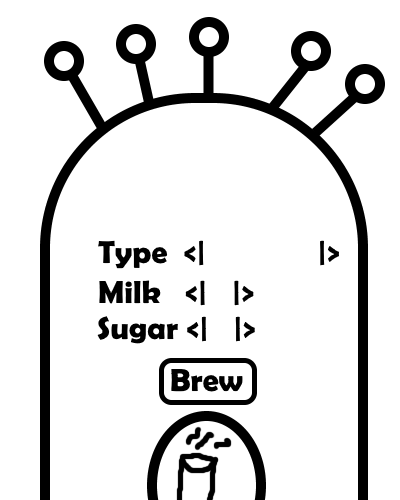
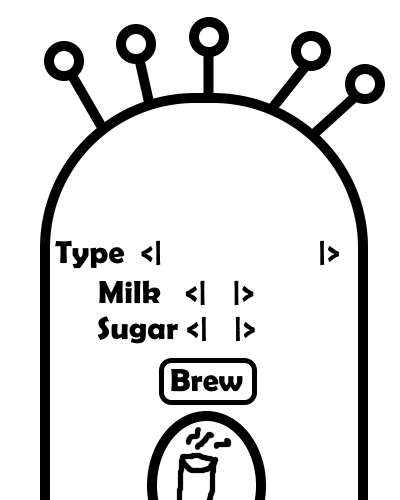
Added remaining images for GuiApp.

Changed region(s): [[0.12, 0.48, 0.42, 0.54], [0.45, 0.48, 0.51, 0.54]]

diff --git a/src/main/java/edu/bu/met/cs665/gui/GuiApp.java b/src/main/java/edu/bu/met/cs665/gui/GuiApp.java
@@ -9,10 +9,8 @@ import java.awt.event.MouseEvent;
 import java.awt.event.MouseListener;
 import java.awt.event.WindowEvent;
 import java.io.IOException;
-import java.io.InputStream;
 import java.util.ArrayList;
 import java.util.List;
-import javax.imageio.ImageIO;
 import javax.swing.JFrame;
 import javax.swing.SwingUtilities;
 import javax.swing.WindowConstants;
@@ -25,6 +23,7 @@ import edu.bu.met.cs665.bev.controller.GreenTeaBeverage;
 import edu.bu.met.cs665.bev.hardware.CompletedOrder;
 import edu.bu.met.cs665.bev.hardware.HardwareInterface;
 import edu.bu.met.cs665.bev.hardware.MockHardwareInterface;
+import edu.bu.met.cs665.gui.ResourceManager.ImageId;
 
 public class GuiApp extends Component implements MouseListener, KeyListener, BeverageControllerObserver  {
   private static final long serialVersionUID = 1L;
@@ -36,33 +35,38 @@ public class GuiApp extends Component implements MouseListener, KeyListener, Bev
       @Override
       public void run() {
         GuiApp app = new GuiApp();
-        app.start();
+        try {
+          app.start();
+        } catch (IOException e) {
+          logger.error(e.toString());
+        }
       }});
   }
   
   private JFrame window;
   
-  private Image currentImage;
-  private Image automaticBeverageMachineImage;
-  private Image automaticBeverageMachineImageWithCoffee;
+  private ResourceManager resourceManager = new ResourceManager();
+  private Image currentMachineImage;
+  private Image currentMilkQuantityImage;
+  private Image currentSugarQuantityImage;
   
   private List<Button> buttons = new ArrayList<Button>();
   
   private HardwareInterface hardwareInterface;
   private BeverageController controller;
   
-  public void start() {
+  public void start() throws IOException {
     hardwareInterface = new MockHardwareInterface(1_500);
     controller = new BeverageController(hardwareInterface);
     // Subscribe to BeverageController events.
     controller.addObserver(this);
-    
-    addButtons();
-    
-    loadImages();
-    currentImage = automaticBeverageMachineImage;
+
+    currentMachineImage = resourceManager.getImage(ImageId.MACHINE);
+    currentMilkQuantityImage = resourceManager.getImage(ImageId.CHAR_0);
+    currentSugarQuantityImage = resourceManager.getImage(ImageId.CHAR_0);
     
     createWindow();
+    addButtons();
     
     window.setDefaultCloseOperation(WindowConstants.EXIT_ON_CLOSE);
     window.setVisible(true);
@@ -108,19 +112,6 @@ public class GuiApp extends Component implements MouseListener, KeyListener, Bev
     }));
   }
   
-  private void loadImages() {
-    try {
-      InputStream imageInputStream = getClass().getClassLoader().getResourceAsStream("assignment-1-beverage-machine.png");
-      automaticBeverageMachineImage = ImageIO.read(imageInputStream);
-      
-      imageInputStream = getClass().getClassLoader().getResourceAsStream("assignment-1-beverage-machine-with-drink.png");
-      automaticBeverageMachineImageWithCoffee = ImageIO.read(imageInputStream);
-    } catch (IOException e) {
-      logger.error(e);
-      // TODO: It would probably be better to crash here, since the image wasn't found.
-    }    
-  }
-  
   private void createWindow() {
     window = new JFrame("Automatic Beverage Machine");
     window.setUndecorated(true);
@@ -137,7 +128,9 @@ public class GuiApp extends Component implements MouseListener, KeyListener, Bev
   
   @Override
   public void paint(Graphics g) {
-    g.drawImage(currentImage, 0, 0, null);
+    g.drawImage(currentMachineImage, 0, 0, null);
+    g.drawImage(currentMilkQuantityImage, 203, 275, null);
+    g.drawImage(currentSugarQuantityImage, 203, 311, null);
   }
 
   @Override
@@ -194,7 +187,11 @@ public class GuiApp extends Component implements MouseListener, KeyListener, Bev
   public void onOrderCompleted(BeverageController controller, CompletedOrder completedOrder) {
     logger.info("Beverage is ready");
     SwingUtilities.invokeLater(() -> {
-      currentImage = automaticBeverageMachineImageWithCoffee;
+      try {
+        currentMachineImage = resourceManager.getImage(ImageId.MACHINE_WITH_DRINK);
+      } catch (IOException e) {
+        logger.error("Error loading " + ImageId.MACHINE_WITH_DRINK.path() + ": " + e.toString());
+      }
       
       // Redraw the image.
       repaint();

diff --git a/src/main/java/edu/bu/met/cs665/gui/ResourceManager.java b/src/main/java/edu/bu/met/cs665/gui/ResourceManager.java
@@ -1,0 +1,53 @@
+package edu.bu.met.cs665.gui;
+
+import java.awt.Image;
+import java.awt.image.BufferedImage;
+import java.io.IOException;
+import java.io.InputStream;
+import java.util.HashMap;
+import java.util.Map;
+import javax.imageio.ImageIO;
+
+public class ResourceManager {
+  public enum ImageId {
+    MACHINE("beverage-machine.png"),
+    MACHINE_WITH_DRINK("beverage-machine-with-drink.png"),
+    CHAR_0("char-0.png"),
+    CHAR_1("char-1.png"),
+    CHAR_2("char-2.png"),
+    CHAR_3("char-3.png"),
+    TEXT_LATTE_MACCHIATO("text-latte-macchiato.png"),
+    TEXT_AMERICANO("text-americano.png"),
+    TEXT_ESPRESSO("text-espresso.png"),
+    TEXT_GREEN_TEA("text-green-tea.png"),
+    TEXT_BLACK_TEA("text-black-tea.png"),
+    TEXT_YELLOW_TEA("text-yellow-tea.png");
+    
+    private final String path;
+    
+    private ImageId(String path) {
+      this.path = path;
+    }
+    
+    String path() {
+      return path;
+    }
+  }
+  
+  private Map<ImageId, Image> images = new HashMap<>();
+  
+  public Image getImage(ImageId imageId) throws IOException {
+    Image image = images.get(imageId);
+    if (image == null) {
+      image = loadImage(imageId);
+    }
+    return image;
+  }
+  
+  private BufferedImage loadImage(ImageId imageId) throws IOException {
+    InputStream imageInputStream = getClass().getClassLoader().getResourceAsStream(imageId.path());
+    BufferedImage image = ImageIO.read(imageInputStream);
+    images.put(imageId, image);
+    return image;
+  }
+}

diff --git a/src/main/java/edu/bu/met/cs665/Main.java b/src/main/java/edu/bu/met/cs665/Main.java
@@ -5,7 +5,7 @@ import edu.bu.met.cs665.bev.controller.BeverageController;
 import edu.bu.met.cs665.bev.controller.BeverageController.State;
 import edu.bu.met.cs665.bev.controller.BeverageControllerObserver;
 import edu.bu.met.cs665.bev.controller.BeverageOrder;
-import edu.bu.met.cs665.bev.controller.LatteMachiatoBeverage;
+import edu.bu.met.cs665.bev.controller.LatteMacchiatoBeverage;
 import edu.bu.met.cs665.bev.hardware.CompletedOrder;
 import edu.bu.met.cs665.bev.hardware.HardwareInterface;
 import edu.bu.met.cs665.bev.hardware.MockHardwareInterface;
@@ -41,7 +41,7 @@ public class Main implements BeverageControllerObserver {
     logger.info("Main: BeverageController's current state: " + controller.state());
     
     logger.info("Main: Constructing first order.");
-    BeverageOrder order1 = new BeverageOrder(new LatteMachiatoBeverage());
+    BeverageOrder order1 = new BeverageOrder(new LatteMacchiatoBeverage());
     logger.info("Main: Submitting first order to BeverageController: " + order1.toString());
     controller.submitOrder(order1);
     

diff --git a/src/main/java/edu/bu/met/cs665/bev/controller/LatteMacchiatoBeverage.java b/src/main/java/edu/bu/met/cs665/bev/controller/LatteMacchiatoBeverage.java
@@ -1,10 +1,10 @@
 package edu.bu.met.cs665.bev.controller;
 
-public class LatteMachiatoBeverage extends CoffeeBeverage {
+public class LatteMacchiatoBeverage extends CoffeeBeverage {
   private final Recipe recipe;
   
-  public LatteMachiatoBeverage() {
-    super("Latte Machiato");
+  public LatteMacchiatoBeverage() {
+    super("Latte Macchiato");
     
     Recipe.Builder rb = new Recipe.Builder();
     recipe = rb.setTypeIndicator(typeIndicator())

diff --git a/src/test/java/edu/bu/met/cs665/bev/controller/BeverageTest.java b/src/test/java/edu/bu/met/cs665/bev/controller/BeverageTest.java
@@ -65,7 +65,7 @@ public class BeverageTest {
   
   @Test
   public void LatteMachiatoBeverage() {
-    Beverage bev = new LatteMachiatoBeverage();
+    Beverage bev = new LatteMacchiatoBeverage();
     assertEquals("Latte Machiato", bev.name());
     assertEquals("C:LM:205", bev.recipe().hardwareCommand());
   }
